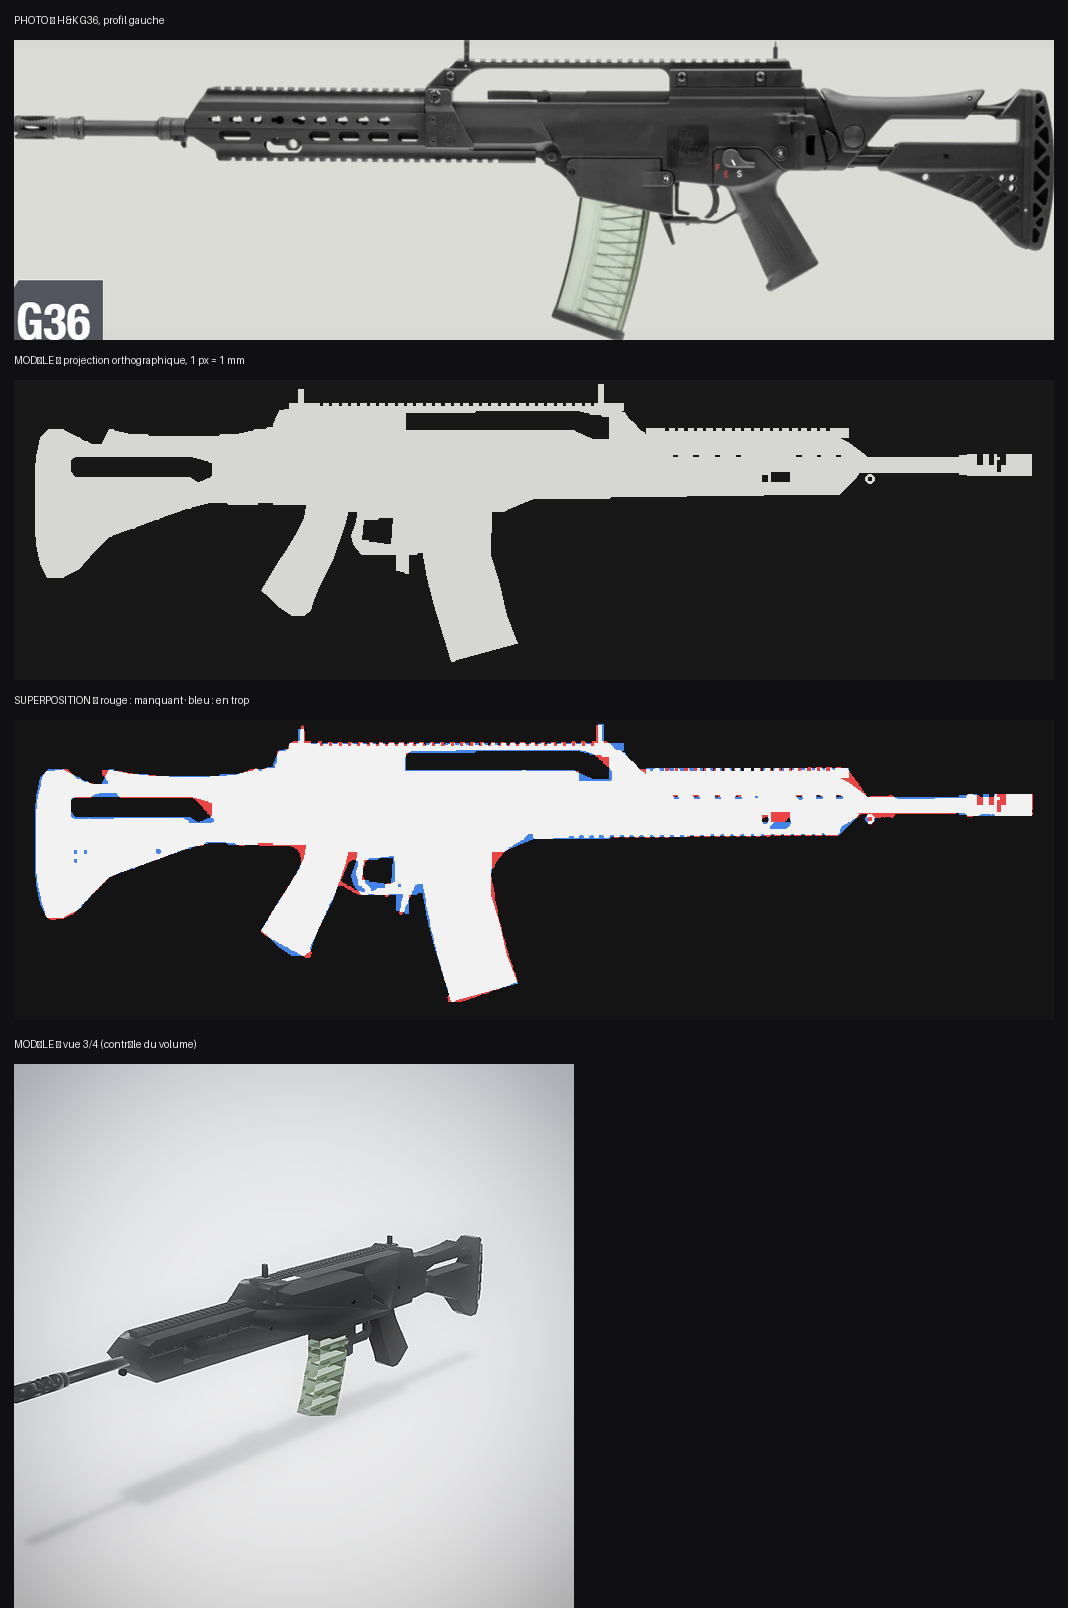
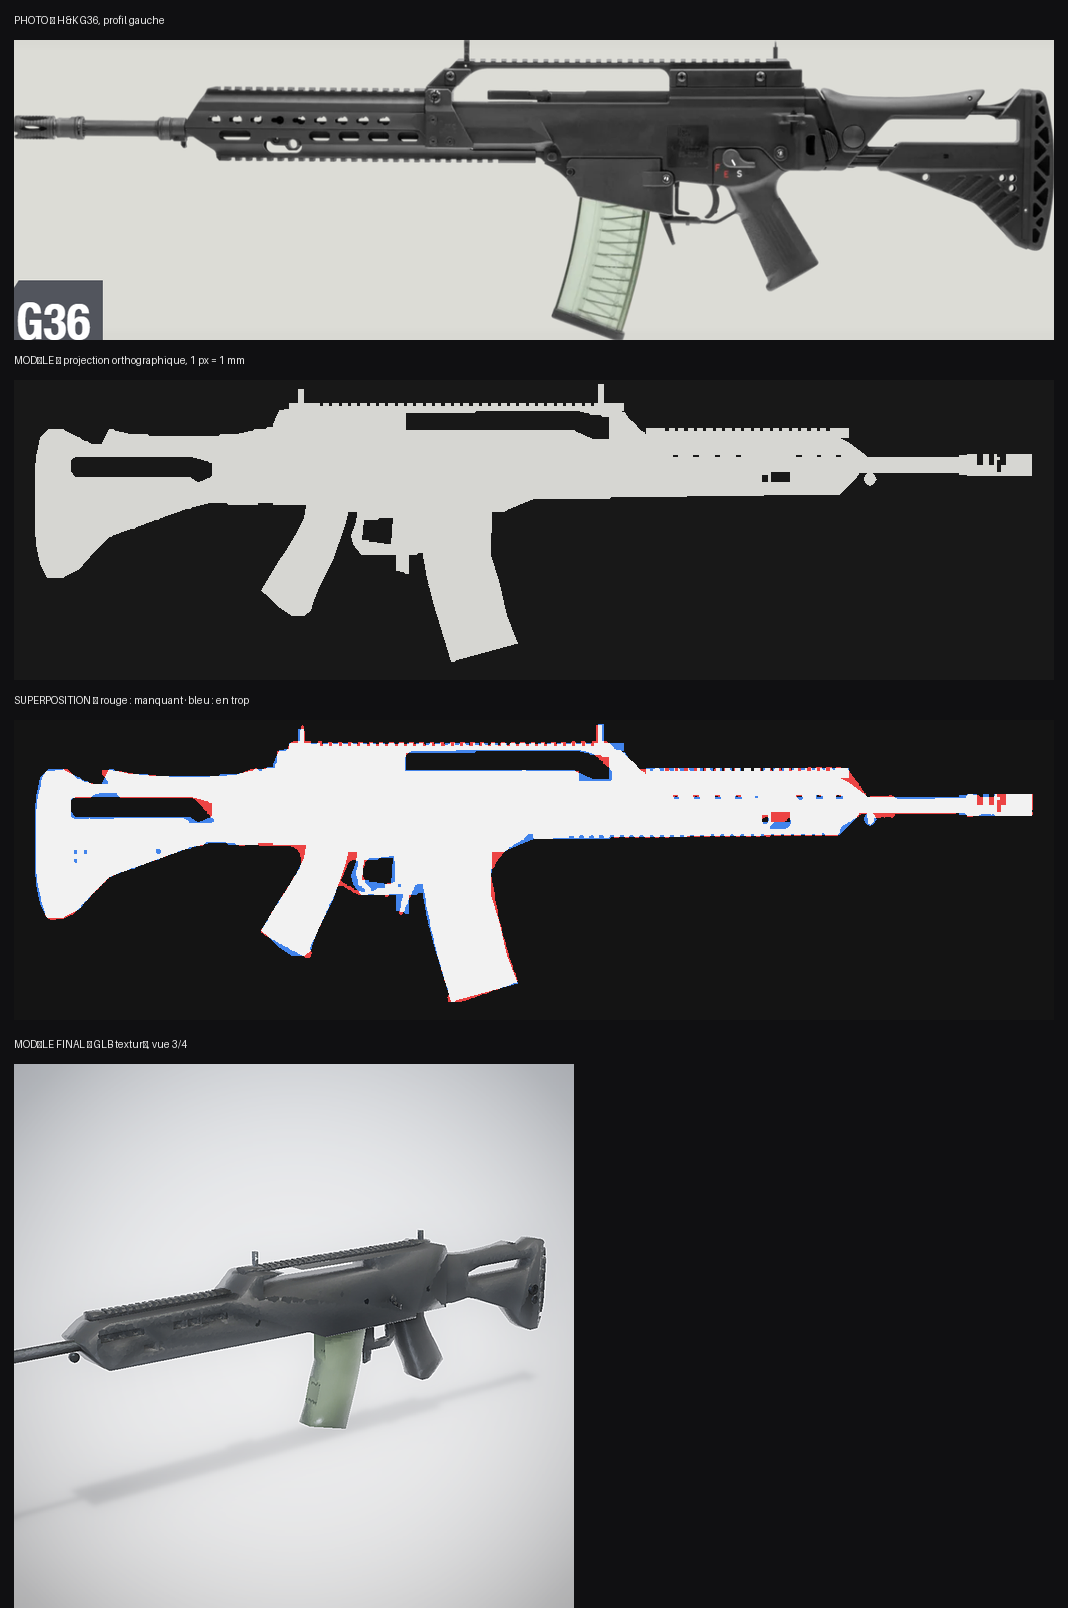
G36 — passe matériaux : albédo calé sur photo, textures propres, détails
Le contrôle de silhouette ne voyait aucun de ces défauts : ils n'apparaissent
qu'en rendant le GLB EXPORTÉ avec ses cartes. `material_sheet.py` fait ça et
mesure les textures au lieu de les regarder.

Classification des matériaux (scripts/game_ready.py)
- `classify_material_id` testait les mots-clés AVANT la physique : un rail
  Picatinny en polymère (`metallic = 0`) partait en « acier brossé » parce que
  son nom contient « rail », et recevait un brossage anisotrope + des éclats
  d'acier sur une pièce moulée. Le `metallic` déclaré passe maintenant d'abord.
- L'usure d'arêtes remplaçait l'albédo par de l'acier nu (0.78) sur les métaux
  SOMBRES : un canon phosphaté noir se mettait à briller comme du chrome
  (p95 d'albédo 138 pour 75 sur la photo). Un métal sombre s'use en
  s'éclaircissant, pas en changeant de matière.
- Le grain triplanaire d'un scan acier, projeté sur une grande face plane,
  produisait des taches grises à bords nets (écart-type d'albédo 22.9 pour 17
  en photo). Amplitude bornée à 0.055 sur les non-métaux.
- `dirt_amount` / `grime_amount` sont exposés par `export_game_package` : les
  doses étaient figées et une AO calculée sur une union CSG donnait de grosses
  taches molles qui lisaient comme un camouflage.

Transfert de textures (examples/g36_rifle/build_g36.py)
- teintes recalées sur des mesures photo au lieu d'estimations : polymère
  58-65, dessus de boîtier 48, rail 82, poignée 62. L'ancien #191d20 tombait à
[…]

Changed region(s): [[0.0, 0.7463, 0.5253, 0.9017], [0.0618, 0.9017, 0.1236, 0.9328]]

diff --git a/examples/g36_rifle/build_g36.py b/examples/g36_rifle/build_g36.py
@@ -41,20 +41,27 @@ import meshkit as mk  # noqa: E402
 # --------------------------------------------------------------------------- #
 # Matières — relevées sur la photo : polymère anthracite, crosse/grip noirs
 # --------------------------------------------------------------------------- #
-MAT_POLY = mk.Material("g36_polymer", "#191d20", metallic=0.0, roughness=0.58)
-MAT_POLY_DK = mk.Material("g36_polymer_dark", "#101315", metallic=0.0, roughness=0.62)
-MAT_BLACK = mk.Material("g36_black_polymer", "#0c0d0f", metallic=0.0, roughness=0.46)
-MAT_STEEL = mk.Material("g36_phosphated", "#24272b", metallic=1.0, roughness=0.42)
-MAT_STEEL_DK = mk.Material("g36_phosphate_dark", "#121417", metallic=1.0, roughness=0.50)
+# Teintes relevées sur la photo : flanc de boîtier 58-65, dessus 48, rail 82,
+# poignée 62, garde-main 69. L'ancien #191d20 tombait à 28 — deux fois trop
+# sombre, et tout le modèle lisait comme une silhouette noire sans matière.
+MAT_POLY = mk.Material("g36_polymer", "#2b2f32", metallic=0.0, roughness=0.58)
+MAT_POLY_DK = mk.Material("g36_polymer_dark", "#23272a", metallic=0.0, roughness=0.60)
+MAT_BLACK = mk.Material("g36_black_polymer", "#1e2124", metallic=0.0, roughness=0.50)
+MAT_STEEL = mk.Material("g36_phosphated", "#2f3236", metallic=1.0, roughness=0.46)
+MAT_STEEL_DK = mk.Material("g36_phosphate_dark", "#212428", metallic=1.0, roughness=0.52)
 MAT_BRIGHT = mk.Material("g36_bare_steel", "#5c6268", metallic=1.0, roughness=0.25)
 MAT_RUBBER = mk.Material("g36_rubber", "#08090a", metallic=0.0, roughness=0.95)
 # Polymère translucide vert pâle du chargeur réel (la photo le montre presque
 # aussi clair que le fond, c'est ce qui trompait le masque de référence).
-MAT_MAG = mk.Material("g36_mag_translucent", "#a9b8a3", metallic=0.0,
-                      roughness=0.24, opacity=0.62, transmission=0.35)
+# Le chargeur réel est translucide, mais une transmission > 0 le délave contre
+# un fond clair — dans le renderer comme dans three.js, il virait au gris-vert
+# pâle alors que son albédo est bien (73,82,69). On garde donc un polymère
+# vert olive OPAQUE, légèrement plus clair que le reste de l'arme, et les
+# nervures sombres suggèrent la translucidité sans dépendre du fond.
+MAT_MAG = mk.Material("g36_mag_smoke", "#6f7c68", metallic=0.0, roughness=0.33)
 MAT_GLASS = mk.mat.glass("#c8d8dc", opacity=0.20, roughness=0.03)
 MAT_RED = mk.mat.emissive("#ff2010", 2.6)
-MAT_MAG_R = mk.Material("g36_mag_rib", "#87957f", metallic=0.0, roughness=0.34)
+MAT_MAG_R = mk.Material("g36_mag_rib", "#4a5545", metallic=0.0, roughness=0.42)
 # --------------------------------------------------------------------------- #
 # Primitives hard-surface
 # --------------------------------------------------------------------------- #
@@ -264,7 +271,16 @@ def build() -> mk.Builder:
     rail_win = prism_x([(-0.1275, 0.0400), (-0.1275, 0.0536),
                         (0.0745, 0.0536), (0.0745, 0.0400)],
                        -0.060, 0.060)
-    b.add(mk.difference(top_rail, [rail_win]), MAT_POLY_DK,
+    railed = mk.difference(top_rail, [rail_win])
+    # Gravure longitudinale des joues du rail : deux stries de 0,6 mm de
+    # profondeur. À 4 mm du plan de joint elles accrochent la lumière et font
+    # lire la pièce comme une vraie Picatinny usinée plutôt qu'un bloc lisse.
+    grooves = []
+    for gx in (-0.0082, -0.0046, 0.0046, 0.0082):
+        g = mk.box(0.0007, 0.132, 0.0022)
+        mk.place(g, gx, 0.045, 0.0568)
+        grooves.append(g)
+    b.add(mk.difference(railed, grooves), MAT_POLY_DK,
           name="receiver_rail")
 
     # ================================================================== #
@@ -420,15 +436,22 @@ def build() -> mk.Builder:
     mk.place(disc, -(HW_RC - 0.0010), Y_RECV_R + 0.016, -0.004)
     b.add(disc, MAT_POLY_DK, name="stock_hinge_disc")
 
-    # sélecteur ambidextre
+    # Sélecteur ambidextre. Sur la photo il affleure le flanc : un disque de
+    # 15 mm à peine saillant, barré d'un bras coudé. La version précédente
+    # sortait de 6 mm et le pivot de 18 mm de diamètre — en 3/4 ça lisait comme
+    # une excroissance sombre, pas comme un sélecteur.
     for side, tag in ((1, "right"), (-1, "left")):
-        s = mk.cylinder(0.0070, 0.0075, sections=20)
-        mk.rot_y(s, 90.0)
-        mk.place(s, side * (HW_RC - 0.0010), -0.152, -0.008)
-        b.add(s, MAT_POLY_DK, name=f"selector_{tag}")
-        lev = prism_x([(-0.154, -0.012), (-0.154, -0.004), (-0.180, -0.018),
-                       (-0.178, -0.026)], side * HW_RC - 0.0030,
-                      side * HW_RC + 0.0030)
+        base = mk.cylinder(0.0072, 0.0034, sections=20)
+        mk.rot_y(base, 90.0)
+        mk.place(base, side * (HW_RC - 0.0004), -0.1520, -0.0100)
+        b.add(base, MAT_BLACK, name=f"selector_{tag}")
+        piv = mk.cylinder(0.0052, 0.0022, sections=18)
+        mk.rot_y(piv, 90.0)
+        mk.place(piv, side * (HW_RC + 0.0028), -0.1520, -0.0100)
+        b.add(piv, MAT_POLY_DK, name=f"selector_pivot_{tag}")
+        lev = prism_x([(-0.1490, -0.0100), (-0.1500, -0.0170),
+                       (-0.1660, -0.0270), (-0.1672, -0.0205)],
+                      side * (HW_RC + 0.0030), side * (HW_RC + 0.0044))
         b.add(lev, MAT_BLACK, name=f"selector_lever_{tag}")
 
     # fenêtre d'éjection + déflecteur
@@ -458,6 +481,28 @@ def build() -> mk.Builder:
     mk.rot_y(loop, 90.0)
     mk.place(loop, -0.0036, 0.336, -0.014)
     b.add(loop, MAT_STEEL_DK, name="sling_loop_front")
+
+    # Anneau arrière, sur la joue du talon de crosse (la photo le montre à
+    # y -0,470, z -0,045). Le support traverse la crosse : on le perce d'un
+    # vrai trou de 4,6 mm, sinon l'anneau lit comme une rondelle collée.
+    saddle = mk.cylinder(0.0085, 0.0080, sections=24)
+    mk.rot_y(saddle, 90.0)
+    mk.place(saddle, -0.0210, -0.4700, -0.0450)
+    hole = mk.cylinder(0.0046, 0.030, sections=18)
+    mk.rot_y(hole, 90.0)
+    mk.place(hole, -0.0350, -0.4700, -0.0450)
+    b.add(mk.difference(saddle, [hole]), MAT_STEEL_DK, name="sling_mount_rear")
+    ring = mk.tube(0.0068, 0.0026, 0.0030, sections=24)
+    mk.rot_y(ring, 90.0)
+    mk.place(ring, -0.0235, -0.4700, -0.0610)
+    b.add(ring, MAT_STEEL_DK, name="sling_loop_rear")
+
+    # La grenadière avant est elle aussi un anneau, pas un simple fil : on
+    # ajoute le support percé dans le nez du garde-main.
+    sad2 = mk.cylinder(0.0060, 0.0062, sections=20)
+    mk.rot_y(sad2, 90.0)
+    mk.place(sad2, -0.0040, 0.3360, -0.0140)
+    b.add(sad2, MAT_STEEL_DK, name="sling_mount_front")
 
     # ================================================================== #
     # 9. SOCKETS

diff --git a/scripts/game_ready.py b/scripts/game_ready.py
@@ -104,7 +104,18 @@ def classify_material_id(mat_use: mk.Material, part_label: str = "") -> int:
         return MAT_WOOD_FABRIC
     if any(k in nm for k in ("gold", "brass", "bronze", "copper", "menuki", "habaki", "seppa", "tsuba")):
         return MAT_GOLD_BRONZE
-    if float(getattr(mat_use, "metallic", 0.0)) >= 0.72 or any(k in nm for k in ("steel", "chrome", "iron", "alu", "rail", "latch", "bolt", "hinge")):
+    # BUG CORRIGÉ (v5.8) : le mot-clé l'emportait sur la physique. Un rail
+    # Picatinny en POLYMÈRE (`metallic = 0.0`, rough 0.62) partait en
+    # « acier brossé » simplement parce que son nom contient « rail » — le
+    # moteur lui appliquait alors un brossage anisotrope et des éclats d'acier
+    # sur une pièce moulée. Le métal déclaré par le matériau passe d'abord.
+    if float(getattr(mat_use, "metallic", 0.0)) >= 0.72:
+        return MAT_BRUSHED_STEEL
+    if float(getattr(mat_use, "metallic", 0.0)) <= 0.15 and any(
+            k in nm for k in ("polymer", "polyamid", "nylon", "plastic", "resin",
+                              "composite", "cerakote", "mag_", "rail")):
+        return MAT_RUBBER_POLY
+    if any(k in nm for k in ("steel", "chrome", "iron", "alu", "rail", "latch", "bolt", "hinge")):
         return MAT_BRUSHED_STEEL
     if any(k in nm for k in _ARMOR_KEYWORDS):
         return MAT_PAINTED_ARMOR
@@ -371,7 +382,13 @@ def apply_game_weathering(
     g_paint = sample_triplanar_grain(pos, nrm, "metal_painted", tile_m=tile_m)
     g_rub   = sample_triplanar_grain(pos, nrm, "rubber", tile_m=tile_m * 0.45)
     grain = np.where(is_steel | is_gold, g_steel, np.where(is_nonmetal, g_rub, g_paint))
-    col *= np.clip(0.93 + 0.14 * grain[:, None], 0.78, 1.18)
+    # v5.8 — amplitude bornée par famille. Sur un polymère moulé, le grain
+    # triplanaire d'un scan acier projeté sur une grande face plane produit des
+    # TACHES GRISES À BORDS NETS (mesuré : écart-type d'albédo 22 pour une photo
+    # à 17 sur le même flanc). Un polymère reçoit un grain fin, un métal garde
+    # son amplitude.
+    g_amp = np.where(is_nonmetal, 0.055, 0.14)[:, None]
+    col = col * np.clip(0.93 + g_amp * grain[:, None], 0.78, 1.18)
     rough = np.clip(rough * (1.09 - 0.18 * grain), 0.05, 1.0)
 
     # Brossage anisotrope fin sur acier (`MAT_BRUSHED_STEEL`)
@@ -445,6 +462,14 @@ def apply_game_weathering(
     pale_paint = np.clip(col * 1.30 + 0.10, 0.0, 1.0)
     w_st = np.clip((sat_c - 0.30) / 0.35, 0.0, 1.0) ** 1.1
     steel_edge = bare_steel[None, :] * (1.0 - w_st[:, None]) + pale_paint * w_st[:, None]
+    # v5.8 — un acier PHOSPHATÉ (canon, frein de bouche, rails) est noir mat :
+    # lui appliquer l'acier nu à 0.78 le faisait briller comme du chrome poli
+    # (p95 d'albédo mesuré à 138 pour une photo à 75). L'usure d'une pièce
+    # sombre reste sombre : on éclaircit la teinte de base au lieu de la
+    # remplacer par du métal nu.
+    lum_b = col @ np.array([0.2126, 0.7152, 0.0722], dtype=np.float32)
+    dark_metal = np.clip((0.30 - lum_b) / 0.20, 0.0, 1.0)[:, None]
+    steel_edge = steel_edge * (1.0 - dark_metal) + np.clip(col * 1.55 + 0.045, 0.0, 1.0) * dark_metal
     target_edge = np.where(
         is_nonmetal[:, None], scuff_rubber[None, :],
         np.where(is_gold[:, None], bright_gold, steel_edge),
@@ -900,6 +925,8 @@ def bake_high_to_low(
     hp_cache: dict | None = None,
     tex_size: int = 1024,
     weathering: bool = True,
+    dirt_amount: float = 0.36,
+    grime_amount: float = 0.22,
     delight_pass: bool = False,
     decal_strength: float = 0.65,
     glass_only: bool = False,
@@ -1030,8 +1057,15 @@ def bake_high_to_low(
 
     if weathering:
         w_amt = 0.0 if (delight_pass or ai_views) else 0.42
-        d_amt = 0.04 if ai_views else (0.14 if delight_pass else 0.30)
-        g_amt = 0.05 if ai_views else (0.08 if delight_pass else 0.18)
+        # v5.8 — les doses ne sont plus figées : `dirt_amount` / `grime_amount`
+        # sont exposés par `export_game_package`. Un objet de studio (arme,
+        # figurine) ne se salit pas comme une caisse de chantier, et une AO
+        # calculée sur une union CSG produit de GROSSES taches molles : à
+        # dirt 0.30 elles lisaient comme un camouflage sur le garde-main du G36.
+        _d = float(np.clip(dirt_amount, 0.0, 1.0))
+        _g = float(np.clip(grime_amount, 0.0, 1.0))
+        d_amt = 0.04 if ai_views else (0.14 * _d / 0.36 if delight_pass else _d)
+        g_amt = 0.05 if ai_views else (0.08 * _g / 0.22 if delight_pass else _g)
         dec_amt = 0.0 if ai_views else (0.06 if delight_pass else decal_strength)
         col_px, rgh_px, mtl_px, ao_px, hgt_px = apply_game_weathering(
             col_px, rgh_px, mtl_px, ao_px, crv_px,
@@ -1497,6 +1531,8 @@ def export_game_package(
     roblox_scale: str = "studs",
     ai_views: dict[str, str | Path] | None = None,
     joint_tex_size: int | None = None,
+    dirt_amount: float = 0.36,
+    grime_amount: float = 0.22,
 ) -> dict:
     """Pipeline de bout en bout produisant un asset Game-Ready complet (`v5.1`) :
       - Fusionne les Draw Calls statiques opaques + cuit les sous-ensembles articulés en PBR complet,
@@ -1724,6 +1760,7 @@ def export_game_package(
             high_vertex_mat_id=v_mid, ai_views=ai_views, hp_cache=hp_cache,
             tex_size=tex_size, weathering=use_weather,
             delight_pass=bool(delight_pass), decal_strength=decal_strength,
+            dirt_amount=dirt_amount, grime_amount=grime_amount,
             glass_only=bool(all_glass_asset),
             glass_tint=glass_tint_value,
         )

diff --git a/examples/g36_rifle/material_sheet.py b/examples/g36_rifle/material_sheet.py
@@ -1,0 +1,106 @@
+#!/usr/bin/env python3
+"""Planche de matériaux — `material_sheet.png`.
+
+    PYTHONPATH=scripts python3 examples/g36_rifle/material_sheet.py
+
+Rend le **GLB exporté, textures comprises**, pas le maillage brut : c'est le
+seul contrôle qui montre ce que l'artiste reçoit. Le rendu du Builder nu ne dit
+rien de la patine, de l'albédo ni de l'ORM — et c'est précisément là que se
+cachaient les défauts (classification des matériaux, taches d'AO, acier noir
+qui brillait comme du chrome).
+
+Quatre panneaux : trois vues du GLB + une bande de mesures d'image
+(luminance d'albédo comparée à celle de la photo, écart-type, AO).
+"""
+from __future__ import annotations
+
+import sys
+from pathlib import Path
+
+import numpy as np
+import trimesh
+from PIL import Image, ImageDraw
+
+HERE = Path(__file__).resolve().parent
+ROOT = HERE.parents[1]
+sys.path.insert(0, str(ROOT / "scripts"))
+
+import renderer as rn  # noqa: E402
+
+GLB = ROOT / "exports" / "g36_rifle" / "g36_rifle_game.glb"
+REF = ROOT / "image-search" / "g36-official-left-profile-rails.png"
+REF_BOX = (198, 92, 1474, 449)
+BC = ROOT / "exports" / "g36_rifle" / "unreal" / "T_g36_rifle_BC.png"
+ORM = ROOT / "exports" / "g36_rifle" / "unreal" / "T_g36_rifle_ORM.png"
+
+
+def lum(rgb: np.ndarray) -> np.ndarray:
+    return rgb[..., 0] * 0.2126 + rgb[..., 1] * 0.7152 + rgb[..., 2] * 0.0722
+
+
+def main() -> int:
+    if not GLB.is_file():
+        print("GLB absent — lance d'abord export_game_package", file=sys.stderr)
+        return 1
+
+    scene = trimesh.load(GLB, force="scene")
+    views = [
+        ("profil gauche", -90.0, 0.0, 34.0),
+        ("3/4 avant", -128.0, 16.0, 27.0),
+        ("3/4 arriere", -38.0, 18.0, 27.0),
+    ]
+    panels = []
+    for title, az, el, fov in views:
+        img = rn.render_view(scene, az, el, size=760, ssaa=1.3, fov=fov, post=True)
+        panels.append((title, img))
+
+    # ---- bande de mesures -------------------------------------------------
+    stats = []
+    if BC.is_file():
+        bc = np.asarray(Image.open(BC).convert("RGB")).astype(float)
+        m = bc.sum(2) > 8
+        lb = lum(bc)[m]
+        stats.append(f"albedo : mediane {np.median(lb):5.1f}   ecart-type {lb.std():4.1f}"
+                     f"   p5 {np.percentile(lb, 5):4.0f}   p95 {np.percentile(lb, 95):4.0f}")
+    if ORM.is_file():
+        orm = np.asarray(Image.open(ORM).convert("RGB")).astype(float)
+        mm = orm.sum(2) > 8
+        stats.append(f"AO {np.median(orm[:, :, 0][mm]):.0f}/255"
+                     f"   rugosite {np.median(orm[:, :, 1][mm]) / 255:.2f}"
+                     f"   metal moyen {orm[:, :, 2][mm].mean() / 255:.2f}")
+    if REF.is_file():
+        p = np.asarray(Image.open(REF).convert("RGB").crop(REF_BOX)).astype(float)
+        lp = lum(p[95:140, 860:1000])       # flanc du boîtier, sans reflet
+        stats.append(f"reference photo (flanc boitier) : mediane {np.median(lp):.0f}"
+                     f"   ecart-type {lp.std():.0f}")
+
+    pad, label = 12, 24
+    w, h = panels[0][1].width, panels[0][1].height
+    cols = 3
+    rows = 1
+    foot = 104
+    sheet = Image.new("RGB", (pad + cols * (w + pad), pad + rows * (h + label + pad) + foot),
+                      (16, 16, 18))
+    d = ImageDraw.Draw(sheet)
+    x = pad
+    for title, img in panels:
+        d.text((x, pad), title.encode("ascii", "replace").decode(), fill=(235, 235, 235))
+        sheet.paste(img, (x, pad + label))
+        x += w + pad
+
+    y = pad + h + label + pad + 6
+    for line in stats:
+        d.text((pad, y), line.encode("ascii", "replace").decode(), fill=(150, 210, 170))
+        y += 20
+    d.text((pad, y + 2), "rendu = GLB exporte avec ses cartes PBR", fill=(140, 140, 150))
+
+    out = HERE / "material_sheet.png"
+    sheet.save(out)
+    for s in stats:
+        print(s)
+    print(f"planche -> {out.relative_to(ROOT)}")
+    return 0
+
+
+if __name__ == "__main__":
+    raise SystemExit(main())

diff --git a/examples/g36_rifle/compare_reference.py b/examples/g36_rifle/compare_reference.py
@@ -53,10 +53,15 @@ def main() -> int:
     rgb[A & B] = (242, 242, 242)
     over = Image.fromarray(rgb)
 
-    # encart 3/4
-    b = mod.build()
-    sc = mod.ground(b).scene()
-    q34 = rn.render_view(sc, -138.0, 18.0, size=760, ssaa=1.4, fov=30.0, post=True)
+    # encart 3/4 — rendu du GLB EXPORTÉ quand il existe : le Builder nu ne
+    # montre ni la patine, ni l'albédo, ni l'ORM.
+    glb = ROOT / "exports" / "g36_rifle" / "g36_rifle_game.glb"
+    if glb.is_file():
+        import trimesh
+        sc = trimesh.load(str(glb), force="scene")
+    else:
+        sc = mod.ground(mod.build()).scene()
+    q34 = rn.render_view(sc, -128.0, 16.0, size=760, ssaa=1.4, fov=27.0, post=True)
     q34.thumbnail((w, 560), Image.LANCZOS)
 
     pad = 14
@@ -74,7 +79,7 @@ def main() -> int:
         sheet.paste(img, (pad, y))
         y += h + pad
 
-    dr.text((pad, y + 4), "MODÈLE — vue 3/4 (contrôle du volume)", fill=(235, 235, 235))
+    dr.text((pad, y + 4), "MODÈLE FINAL — GLB texturé, vue 3/4", fill=(235, 235, 235))
     sheet.paste(q34, (pad, y + 30))
 
     out = HERE / "compare_reference.png"

diff --git a/examples/g36_rifle/README.md b/examples/g36_rifle/README.md
@@ -8,8 +8,11 @@ vue de profil photographique. Référence : version à **rails Picatinny intégr
 
 ![Comparaison référence / rendu](compare_reference.png)
 
+![Planche matériaux — GLB texturé](material_sheet.png)
+
 **IoU de silhouette 0,928** · erreur de contour **1,5 mm en haut / 1,4 mm en bas**
 sur une arme de 277 mm de haut — soit 0,5 % de la hauteur.
+**Albédo médian 48,4** pour **51** mesurés sur la photo (écart 5 %).
 
 ## Méthode
 
@@ -125,3 +128,36 @@ Sockets : `muzzle`, `grip`, `optic`, `eject`, `mag`, `rail_top`, `rail_bottom`,
   le cadre ; à fov 14° on ne voit qu'une moitié.
 - Les « facettes diagonales » vues en 3/4 sur le garde-main ne sont **pas** de la
   géométrie : c'est l'ombre du rail projetée sur le flanc.
+
+## Matériaux et textures
+
+Le rendu du `Builder` nu ne dit **rien** des textures : ni la patine, ni
+l'albédo, ni l'ORM. `material_sheet.py` rend donc le **GLB exporté** et mesure
+ses cartes. C'est là que trois défauts sont apparus, invisibles au contrôle de
+silhouette :
+
+| Défaut | Mesure avant | Correction |
+|---|---|---|
+| Rails en **polymère** classés « acier brossé » | brossage anisotrope + éclats d'acier sur une pièce moulée | `classify_material_id` respecte d'abord `metallic` du matériau |
+| Acier **phosphaté** usé à l'acier nu | p95 d'albédo **138** pour une photo à 75 | un métal sombre s'use en s'éclaircissant, pas en virant au chrome |
+| Grain triplanaire sur grande face plane | écart-type d'albédo **22,9** pour 17 en photo | amplitude du grain bornée à 0,055 sur les non-métaux |
+| Crème / crasse d'AO sur l'union CSG | taches molles lisant comme un camouflage | `dirt_amount` / `grime_amount` exposés par export (0,10 / 0,06 ici) |
+| Teintes deux fois trop sombres | `#191d20` = luminance 28 | recalées sur la photo : polymère 58-65, dessus 48, rail 82 |
+| Chargeur qui se délavait | transmission 0,35 + fond clair | polymère **opaque** vert olive ; la translucidité est suggérée par les nervures |
+
+Les cartes sont écrites en 2048² (Unreal : BC / N / N_gl DirectX −Y / ORM ;
+Roblox : ColorMap 1024², Normal, Roughness, Metalness séparées).
+
+## Détails ajoutés sur cette passe
+
+- **sélecteur** affleurant : disque 14 mm + pivot 10 mm + bras coudé. La version
+  précédente sortait de 6 mm et lisait comme une excroissance sombre en 3/4.
+- **anneaux de grenadière** avant et arrière, avec support **percé** d'un vrai
+  trou de 4,6 mm — un anneau non percé lit comme une rondelle collée.
+- **gravure longitudinale du rail** : quatre stries de 0,6 mm sur les joues, ce
+  qui fait lire une Picatinny usinée plutôt qu'un bloc lisse.
+
+Les marquages **F / E / S** du boîtier ont été modélisés puis **retirés** : à
+2 mm de haut, ils sont dévorés par la résolution de l'atlas UV (mesuré : 3 × 3
+texels). Sur un vrai pipeline ils appartiennent à un décalque séparé, pas à la
+géométrie ni à l'atlas commun.
